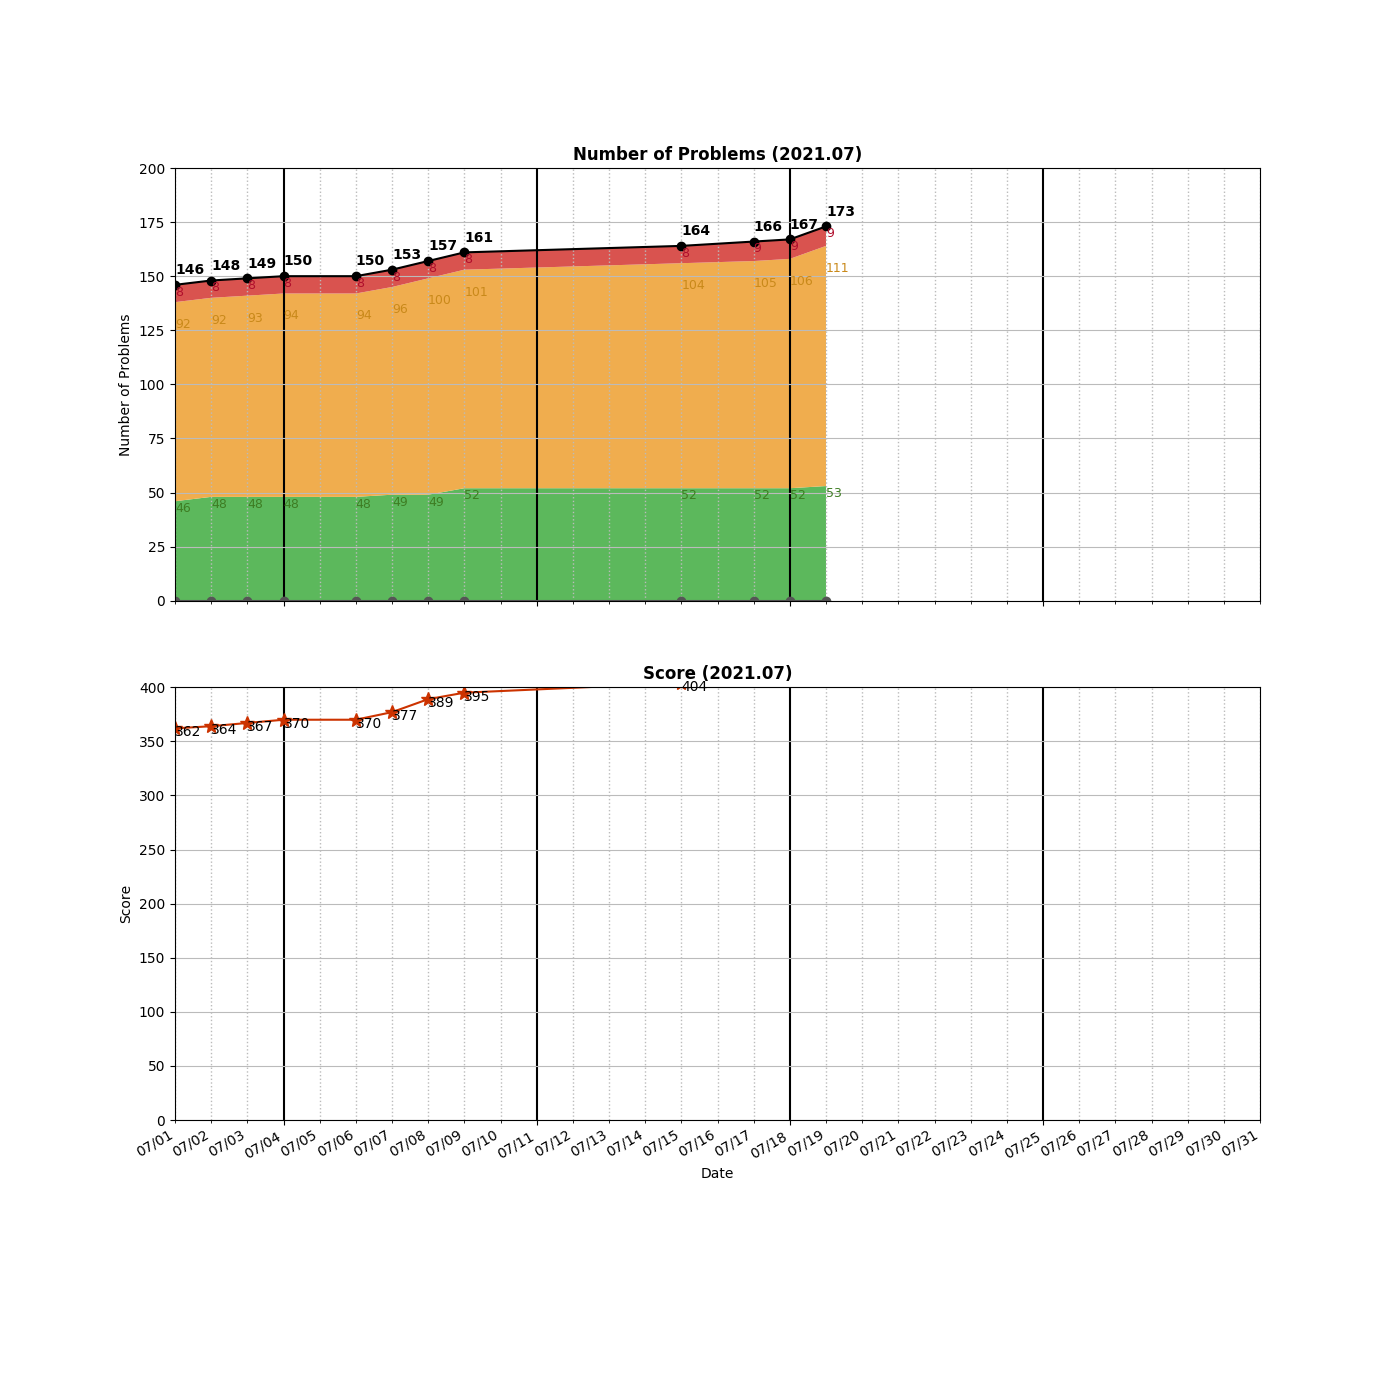
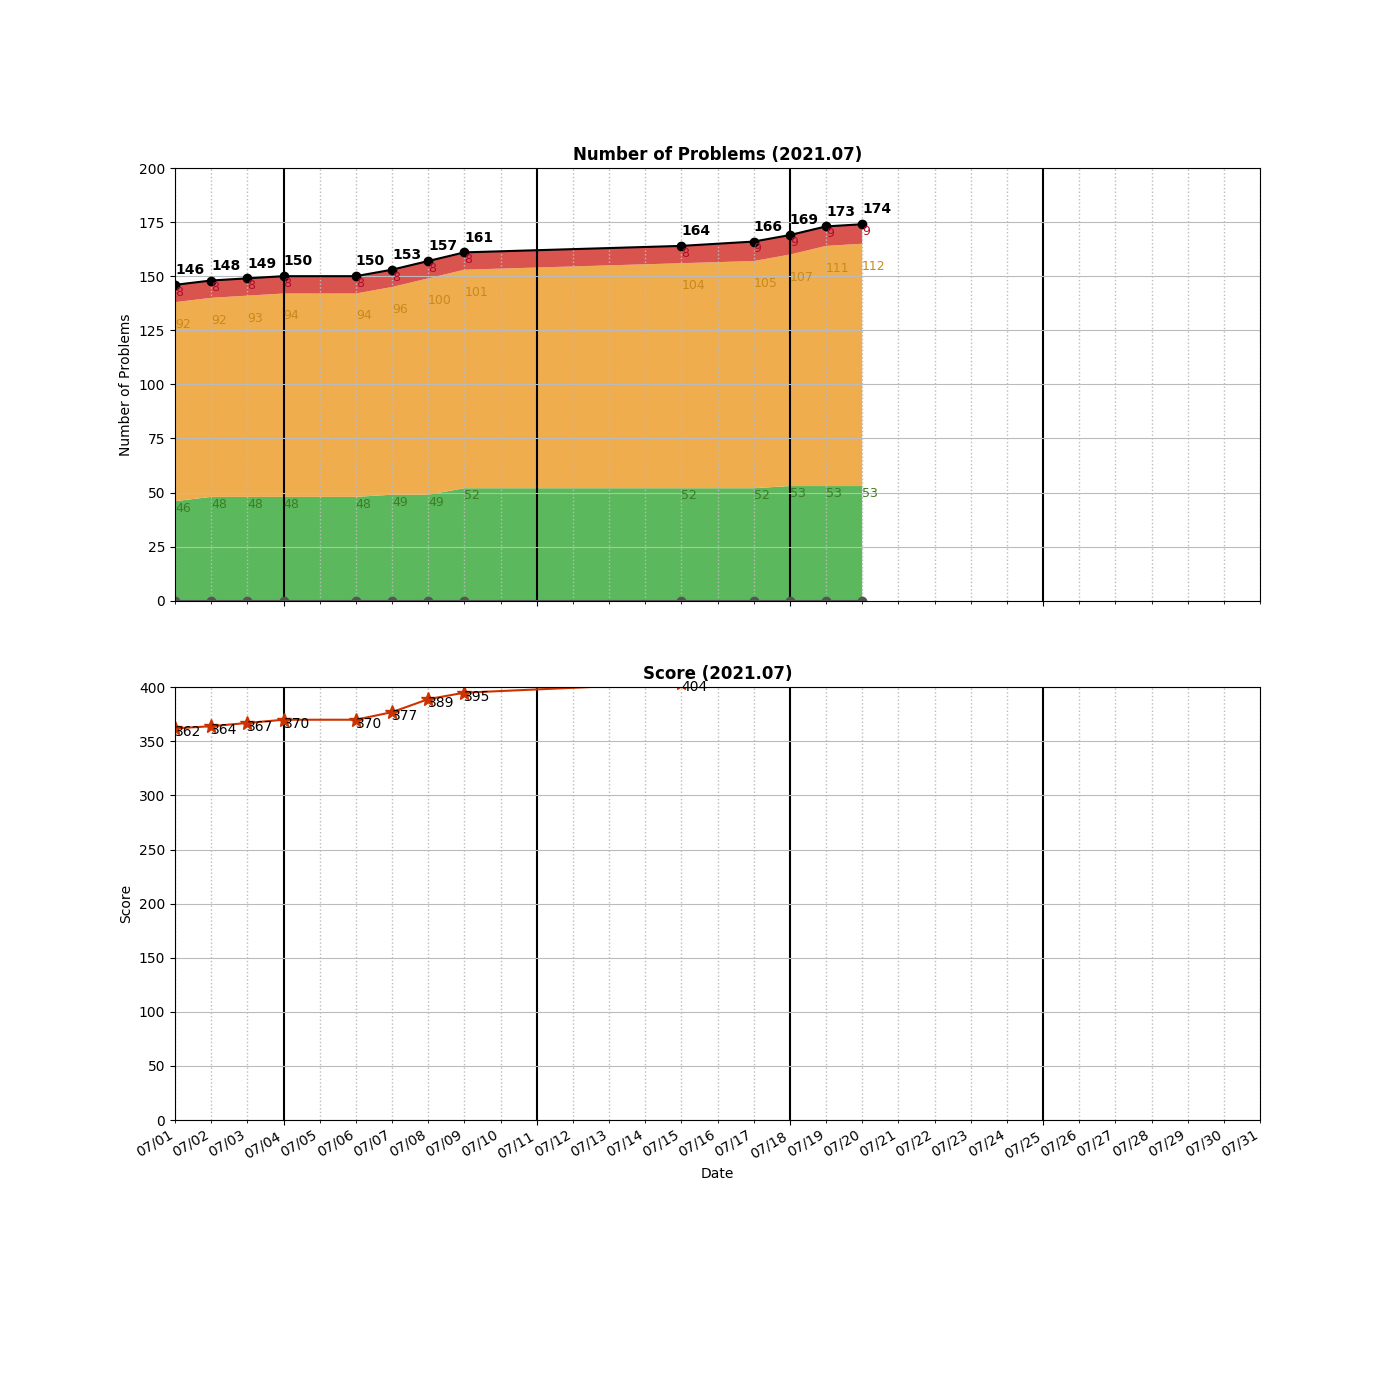
Added __0314__Binary Tree Vertical Order Traversal.py

Changed region(s): [[0.5529, 0.1536, 0.6143, 0.43]]

diff --git a/algo/Tree/__0314__Binary Tree Vertical Order Traversal.py b/algo/Tree/__0314__Binary Tree Vertical Order Traversal.py
@@ -1,0 +1,27 @@
+# Definition for a binary tree node.
+# class TreeNode:
+#     def __init__(self, val=0, left=None, right=None):
+#         self.val = val
+#         self.left = left
+#         self.right = right
+class Solution:
+    def verticalOrder(self, root: TreeNode) -> List[List[int]]:
+        idxToList = collections.defaultdict(list)
+        self.traverse(root, idxToList, 0, 0, "0")
+        res = []
+        for idx in sorted(idxToList.keys()):
+            curList = idxToList[idx]
+            curList.sort()
+            sortedList = [e[2] for e in curList]
+            res.append(sortedList)
+        return res
+            
+    def traverse(self, root, imap, idx, depth, left):
+        if not root:
+            return
+        imap[idx].append([depth, left, root.val])
+        self.traverse(root.left,  imap, idx-1, depth+1, left + "0")
+        self.traverse(root.right, imap, idx+1, depth+1, left + "1")
+        
+        
+        

diff --git a/README.md b/README.md
@@ -157,6 +157,7 @@ algo
 │   ├── __0236__Lowest\ Common\ Ancestor\ of\ a\ Binary\ Tree.py
 │   ├── __0257__Binary\ Tree\ Paths.py
 │   ├── __0270__Closest\ Binary\ Search\ Tree\ Value.py
+│   ├── __0314__Binary\ Tree\ Vertical\ Order\ Traversal.py
 │   ├── __0366__Find\ Leaves\ of\ Binary\ Tree.py
 │   ├── __0437__Path\ Sum\ III.py
 │   ├── __0538__Convert\ BST\ to\ Greater\ Tree.py
@@ -200,7 +201,7 @@ algo
         ├── LinkedList.cpython-37.pyc
         └── UnrolledLinkedList.cpython-37.pyc
 
-20 directories, 179 files
+20 directories, 180 files
 
 =====================================
 ============= Local Repo ============
@@ -321,6 +322,7 @@ __0287__Find the Duplicate Number.py
 __0290__Word Pattern.py
 __0297__Serialize and Deserialize Binary Tree.py
 __0300__Longest Increasing Subsequence.py
+__0314__Binary Tree Vertical Order Traversal.py
 __0322__Coin Change.py
 __0323__Number of Connected Components in an Undirected Graph.py
 __0332__Reconstruct Itinerary.py
@@ -376,7 +378,7 @@ __1429__First Unique Number.py
 __1593__Split a String Into the Max Number of Unique Substrings.py
 __1905__Count Sub Islands.py
 =====================================
-Num of Python Practice:  170
+Num of Python Practice:  171
 
 
 =====================================
@@ -500,6 +502,7 @@ Num of Python Practice:  170
  0290 Word Pattern
  0297 Serialize and Deserialize Binary Tree
  0300 Longest Increasing Subsequence
+ 0314 Binary Tree Vertical Order Traversal
  0322 Coin Change
  0323 Number of Connected Components in an Undirected Graph
  0332 Reconstruct Itinerary
@@ -557,10 +560,10 @@ Num of Python Practice:  170
  1905 Count Sub Islands
 =====================================
 Solved / Total (Easy)  :   53 /  507
-Solved / Total (Medium):  111 / 1021
+Solved / Total (Medium):  112 / 1021
 Solved / Total (Hard)  :    9 /  411
-Solved / Total (All)   :  173 / 1939
-Total Score            :  431
+Solved / Total (All)   :  174 / 1939
+Total Score            :  434
 =====================================
 
 ```
